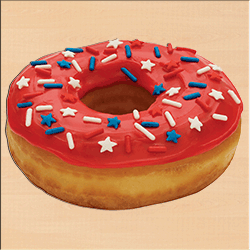
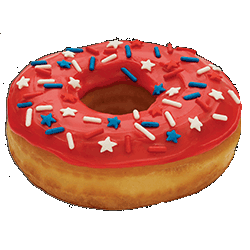
separated images and background images; created win background

diff --git a/src/ticTacToe/tic-tac-toe.html b/src/ticTacToe/tic-tac-toe.html
@@ -24,14 +24,14 @@
     </div>
 
     <div class="ticTacToe--board">
-        <div class="ticTacToe--board-cell ticTacToe--board-cell--empty" data-index="0"></div>
-        <div class="ticTacToe--board-cell ticTacToe--board-cell--empty" data-index="1"></div>
-        <div class="ticTacToe--board-cell ticTacToe--board-cell--empty" data-index="2"></div>
-        <div class="ticTacToe--board-cell ticTacToe--board-cell--empty" data-index="3"></div>
-        <div class="ticTacToe--board-cell ticTacToe--board-cell--empty" data-index="4"></div>
-        <div class="ticTacToe--board-cell ticTacToe--board-cell--empty" data-index="5"></div>
-        <div class="ticTacToe--board-cell ticTacToe--board-cell--empty" data-index="6"></div>
-        <div class="ticTacToe--board-cell ticTacToe--board-cell--empty" data-index="7"></div>
-        <div class="ticTacToe--board-cell ticTacToe--board-cell--empty" data-index="8"></div>
+        <div class="ticTacToe--board-cell--background" data-index="0"><span class="ticTacToe--board-cell--empty"></span></div>
+        <div class="ticTacToe--board-cell--background" data-index="1"><span class="ticTacToe--board-cell--empty"></span></div>
+        <div class="ticTacToe--board-cell--background" data-index="2"><span class="ticTacToe--board-cell--empty"></span></div>
+        <div class="ticTacToe--board-cell--background" data-index="3"><span class="ticTacToe--board-cell--empty"></span></div>
+        <div class="ticTacToe--board-cell--background" data-index="4"><span class="ticTacToe--board-cell--empty"></span></div>
+        <div class="ticTacToe--board-cell--background" data-index="5"><span class="ticTacToe--board-cell--empty"></span></div>
+        <div class="ticTacToe--board-cell--background" data-index="6"><span class="ticTacToe--board-cell--empty"></span></div>
+        <div class="ticTacToe--board-cell--background" data-index="7"><span class="ticTacToe--board-cell--empty"></span></div>
+        <div class="ticTacToe--board-cell--background" data-index="8"><span class="ticTacToe--board-cell--empty"></span></div>
     </div>
 </div>
